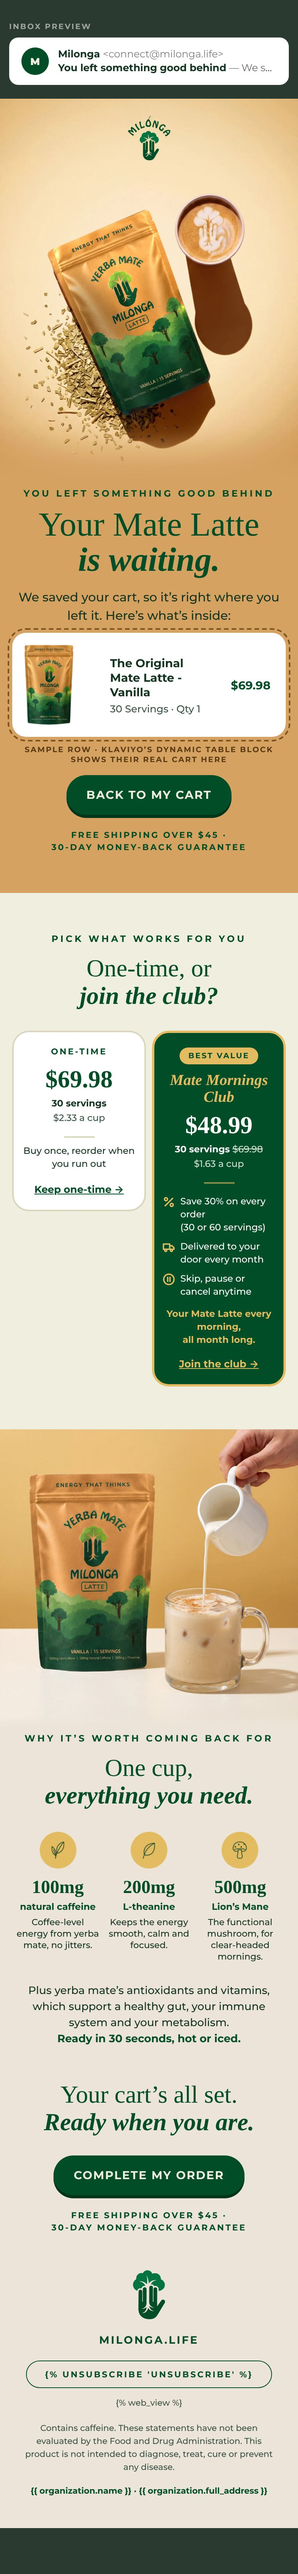
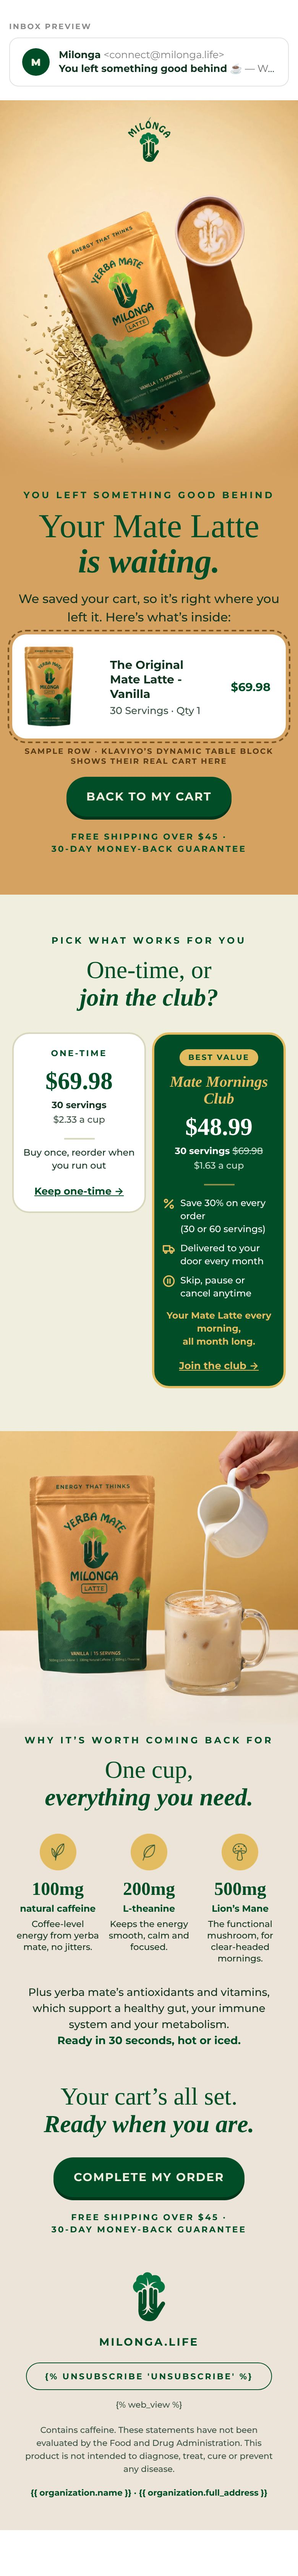
Cart E1: white page around the email
The outer full-width wrappers of both HTML blocks are now white; the
600px design keeps its own colours.

Claude-Session: https://claude.ai/code/session_01NhEtXPnfeCJfN73SqBkUZ5

diff --git a/email-ds/refine/cart-e1.html b/email-ds/refine/cart-e1.html
@@ -1,10 +1,10 @@
 <!doctype html><html><head><meta charset="utf-8"><meta name="viewport" content="width=device-width,initial-scale=1">
 <title>Cart E1 · preview</title><style>
[1 lines of base64/hex data omitted]
-body{margin:0;background:#2B3A31;padding:28px 0 60px}
+body{margin:0;background:#FFFFFF;padding:28px 0 60px}
 .inbox{width:600px;max-width:calc(100% - 24px);margin:0 auto 18px;font-family:Montserrat,Arial,sans-serif}
-.inbox .lab{font-size:10px;font-weight:700;letter-spacing:.16em;text-transform:uppercase;color:rgba(255,255,255,.55);margin-bottom:8px}
-.inbox .row{background:#fff;border-radius:12px;padding:13px 16px;display:grid;grid-template-columns:36px 1fr;column-gap:12px;align-items:center}
+.inbox .lab{font-size:10px;font-weight:700;letter-spacing:.16em;text-transform:uppercase;color:#8A8A8A;margin-bottom:8px}
+.inbox .row{background:#fff;border:1px solid #E2E2E2;border-radius:12px;padding:13px 16px;display:grid;grid-template-columns:36px 1fr;column-gap:12px;align-items:center}
 .inbox .av{grid-row:1/span 2;width:36px;height:36px;border-radius:50%;background:#004D27;color:#F0EFDF;display:grid;place-items:center;font-weight:900;font-size:13px}
 .inbox .from{font-weight:700;font-size:13px;color:#12331F}.inbox .from span{font-weight:400;color:#808080}
 .inbox .sub{font-size:13px;line-height:1.4;color:#12331F;white-space:nowrap;overflow:hidden;text-overflow:ellipsis}.inbox .sub b{font-weight:700}.inbox .sub span{color:#6b6b6b}
@@ -49,6 +49,7 @@ body{margin:0;background:#2B3A31;padding:28px 0 60px}
     .btn { padding:18px 26px !important; font-size:15px !important; letter-spacing:1.2px !important; }
   }
   @media (prefers-color-scheme: dark) {
+    .bg-white { background-color:#FFFFFF !important; }
     .bg-page { background-color:#F0EFDF !important; }
     .bg-hero-top { background-color:#E8C58D !important; }
     .bg-hero { background-color:#D5A262 !important; }
@@ -56,7 +57,7 @@ body{margin:0;background:#2B3A31;padding:28px 0 60px}
     .bg-table { background-color:#EDE4D9 !important; }
   }
 </style>
-<table role="presentation" width="100%" cellpadding="0" cellspacing="0" border="0" bgcolor="#D5A262" class="bg-hero" style="background-color:#D5A262;">
+<table role="presentation" width="100%" cellpadding="0" cellspacing="0" border="0" bgcolor="#FFFFFF" class="bg-white" style="background-color:#FFFFFF;">
 <tr><td align="center">
 <table role="presentation" class="wrap" width="600" cellpadding="0" cellspacing="0" border="0" style="width:600px;max-width:600px;">
 
@@ -74,8 +75,8 @@ body{margin:0;background:#2B3A31;padding:28px 0 60px}
 </table>
 </td></tr>
 </table>
-<table role="presentation" width="100%" cellpadding="0" cellspacing="0" border="0" bgcolor="#D5A262" style="background-color:#D5A262;"><tr><td align="center">
-<table role="presentation" width="100%" cellpadding="0" cellspacing="0" border="0" style="width:100%;max-width:600px;"><tr><td style="padding:0 16px;">
+<table role="presentation" width="100%" cellpadding="0" cellspacing="0" border="0" bgcolor="#FFFFFF" style="background-color:#FFFFFF;"><tr><td align="center">
+<table role="presentation" width="100%" cellpadding="0" cellspacing="0" border="0" bgcolor="#D5A262" style="width:100%;max-width:600px;background-color:#D5A262;"><tr><td style="padding:0 16px;">
 <table role="presentation" width="100%" cellpadding="0" cellspacing="0" border="0" style="border-collapse:separate;background:#FFFFFF;border-radius:18px;outline:2px dashed #7A5320;outline-offset:4px;"><tr>
 <td width="96" style="padding:16px;"><img src="../exports/klaviyo/cart-e1/img/cart-pouch.png" width="64" height="96" alt="" style="display:block;width:64px;height:auto;"></td>
 <td style="padding:16px 0;font-family:'Montserrat','Helvetica Neue',Helvetica,Arial,sans-serif;"><div style="font-size:15px;font-weight:700;color:#12331F;">The Original Mate Latte - Vanilla</div><div style="padding-top:4px;font-size:13px;font-weight:500;color:#3B5344;">30 Servings &middot; Qty 1</div></td>
@@ -116,6 +117,7 @@ body{margin:0;background:#2B3A31;padding:28px 0 60px}
     .btn { padding:18px 26px !important; font-size:15px !important; letter-spacing:1.2px !important; }
   }
   @media (prefers-color-scheme: dark) {
+    .bg-white { background-color:#FFFFFF !important; }
     .bg-page { background-color:#F0EFDF !important; }
     .bg-hero-top { background-color:#E8C58D !important; }
     .bg-hero { background-color:#D5A262 !important; }
@@ -123,7 +125,7 @@ body{margin:0;background:#2B3A31;padding:28px 0 60px}
     .bg-table { background-color:#EDE4D9 !important; }
   }
 </style>
-<table role="presentation" width="100%" cellpadding="0" cellspacing="0" border="0" bgcolor="#F0EFDF" class="bg-page" style="background-color:#F0EFDF;">
+<table role="presentation" width="100%" cellpadding="0" cellspacing="0" border="0" bgcolor="#FFFFFF" class="bg-white" style="background-color:#FFFFFF;">
 <tr><td align="center">
 <table role="presentation" class="wrap" width="600" cellpadding="0" cellspacing="0" border="0" style="width:600px;max-width:600px;">
 

diff --git a/email-ds/exports/klaviyo/cart-e1/cart-e1-bottom.html b/email-ds/exports/klaviyo/cart-e1/cart-e1-bottom.html
@@ -31,6 +31,7 @@
     .btn { padding:18px 26px !important; font-size:15px !important; letter-spacing:1.2px !important; }
   }
   @media (prefers-color-scheme: dark) {
+    .bg-white { background-color:#FFFFFF !important; }
     .bg-page { background-color:#F0EFDF !important; }
     .bg-hero-top { background-color:#E8C58D !important; }
     .bg-hero { background-color:#D5A262 !important; }
@@ -38,7 +39,7 @@
     .bg-table { background-color:#EDE4D9 !important; }
   }
 </style>
-<table role="presentation" width="100%" cellpadding="0" cellspacing="0" border="0" bgcolor="#F0EFDF" class="bg-page" style="background-color:#F0EFDF;">
+<table role="presentation" width="100%" cellpadding="0" cellspacing="0" border="0" bgcolor="#FFFFFF" class="bg-white" style="background-color:#FFFFFF;">
 <tr><td align="center">
 <table role="presentation" class="wrap" width="600" cellpadding="0" cellspacing="0" border="0" style="width:600px;max-width:600px;">
 

diff --git a/email-ds/exports/klaviyo/cart-e1/cart-e1-top.html b/email-ds/exports/klaviyo/cart-e1/cart-e1-top.html
@@ -35,6 +35,7 @@
     .btn { padding:18px 26px !important; font-size:15px !important; letter-spacing:1.2px !important; }
   }
   @media (prefers-color-scheme: dark) {
+    .bg-white { background-color:#FFFFFF !important; }
     .bg-page { background-color:#F0EFDF !important; }
     .bg-hero-top { background-color:#E8C58D !important; }
     .bg-hero { background-color:#D5A262 !important; }
@@ -42,7 +43,7 @@
     .bg-table { background-color:#EDE4D9 !important; }
   }
 </style>
-<table role="presentation" width="100%" cellpadding="0" cellspacing="0" border="0" bgcolor="#D5A262" class="bg-hero" style="background-color:#D5A262;">
+<table role="presentation" width="100%" cellpadding="0" cellspacing="0" border="0" bgcolor="#FFFFFF" class="bg-white" style="background-color:#FFFFFF;">
 <tr><td align="center">
 <table role="presentation" class="wrap" width="600" cellpadding="0" cellspacing="0" border="0" style="width:600px;max-width:600px;">
 
